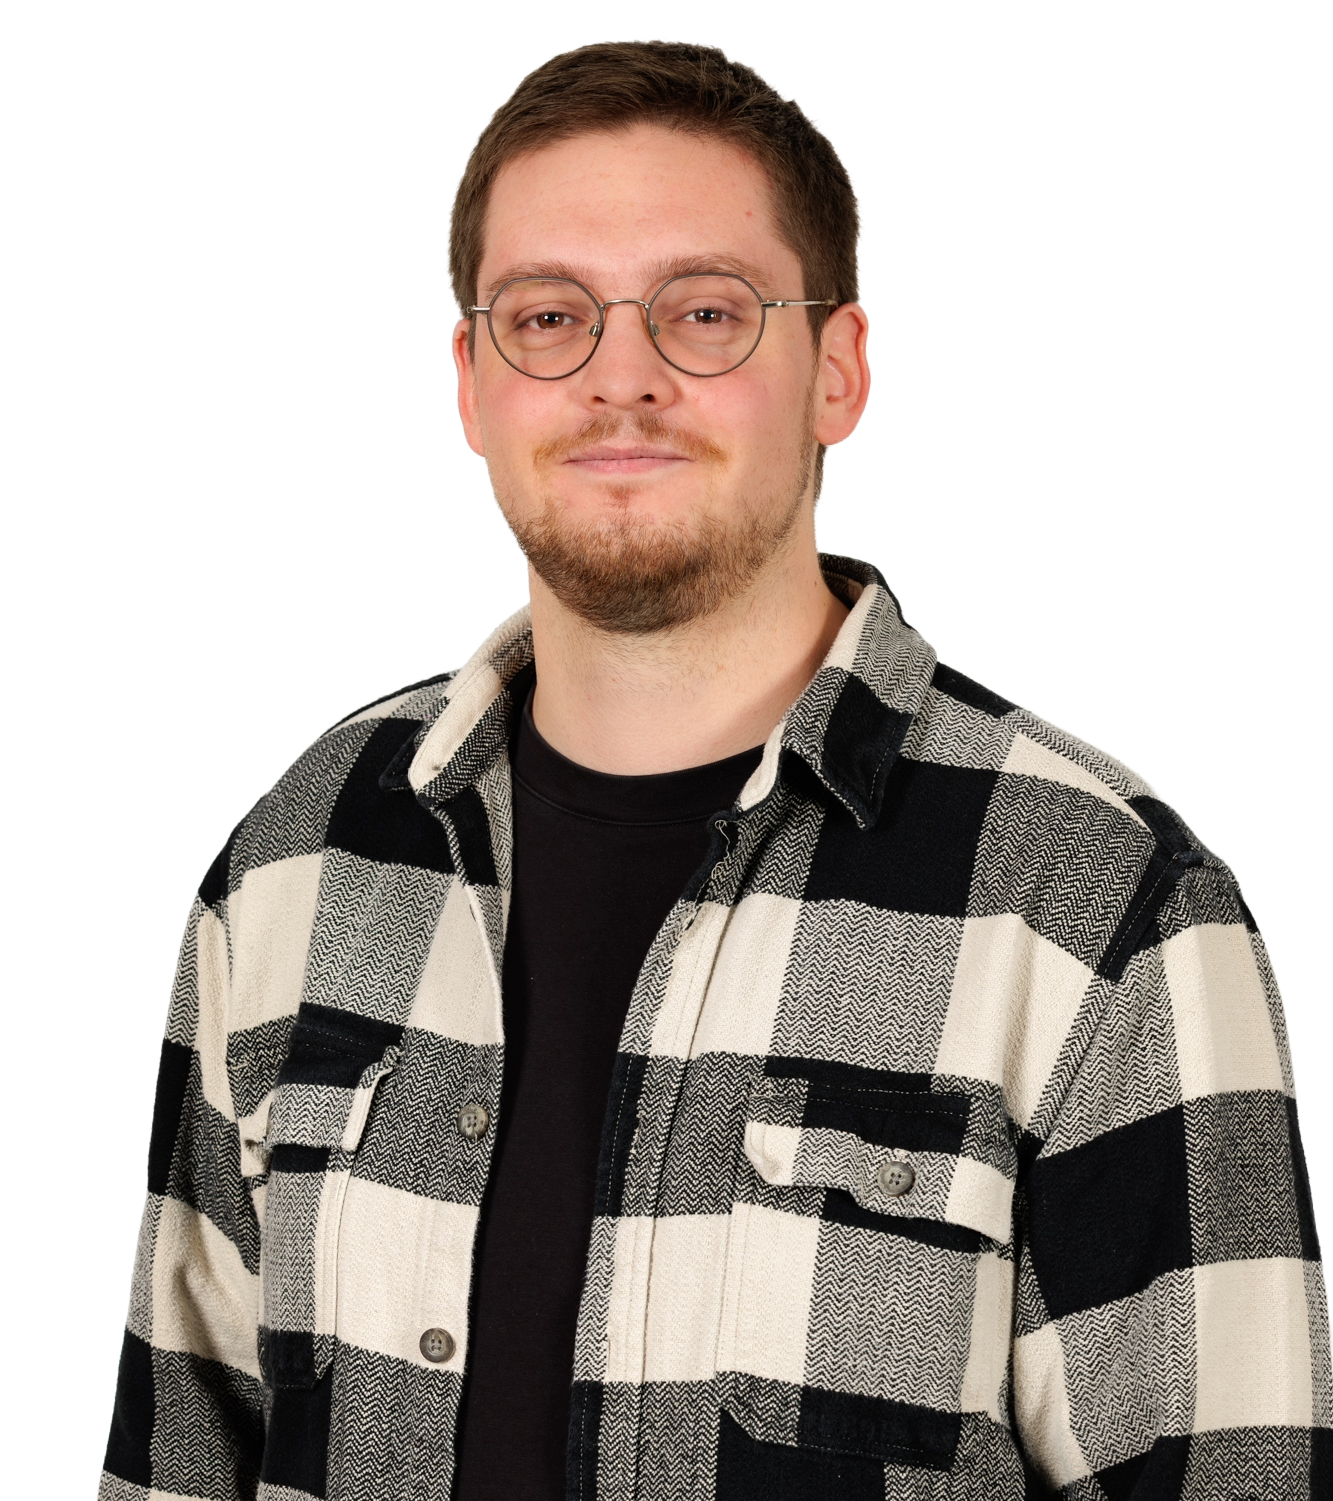
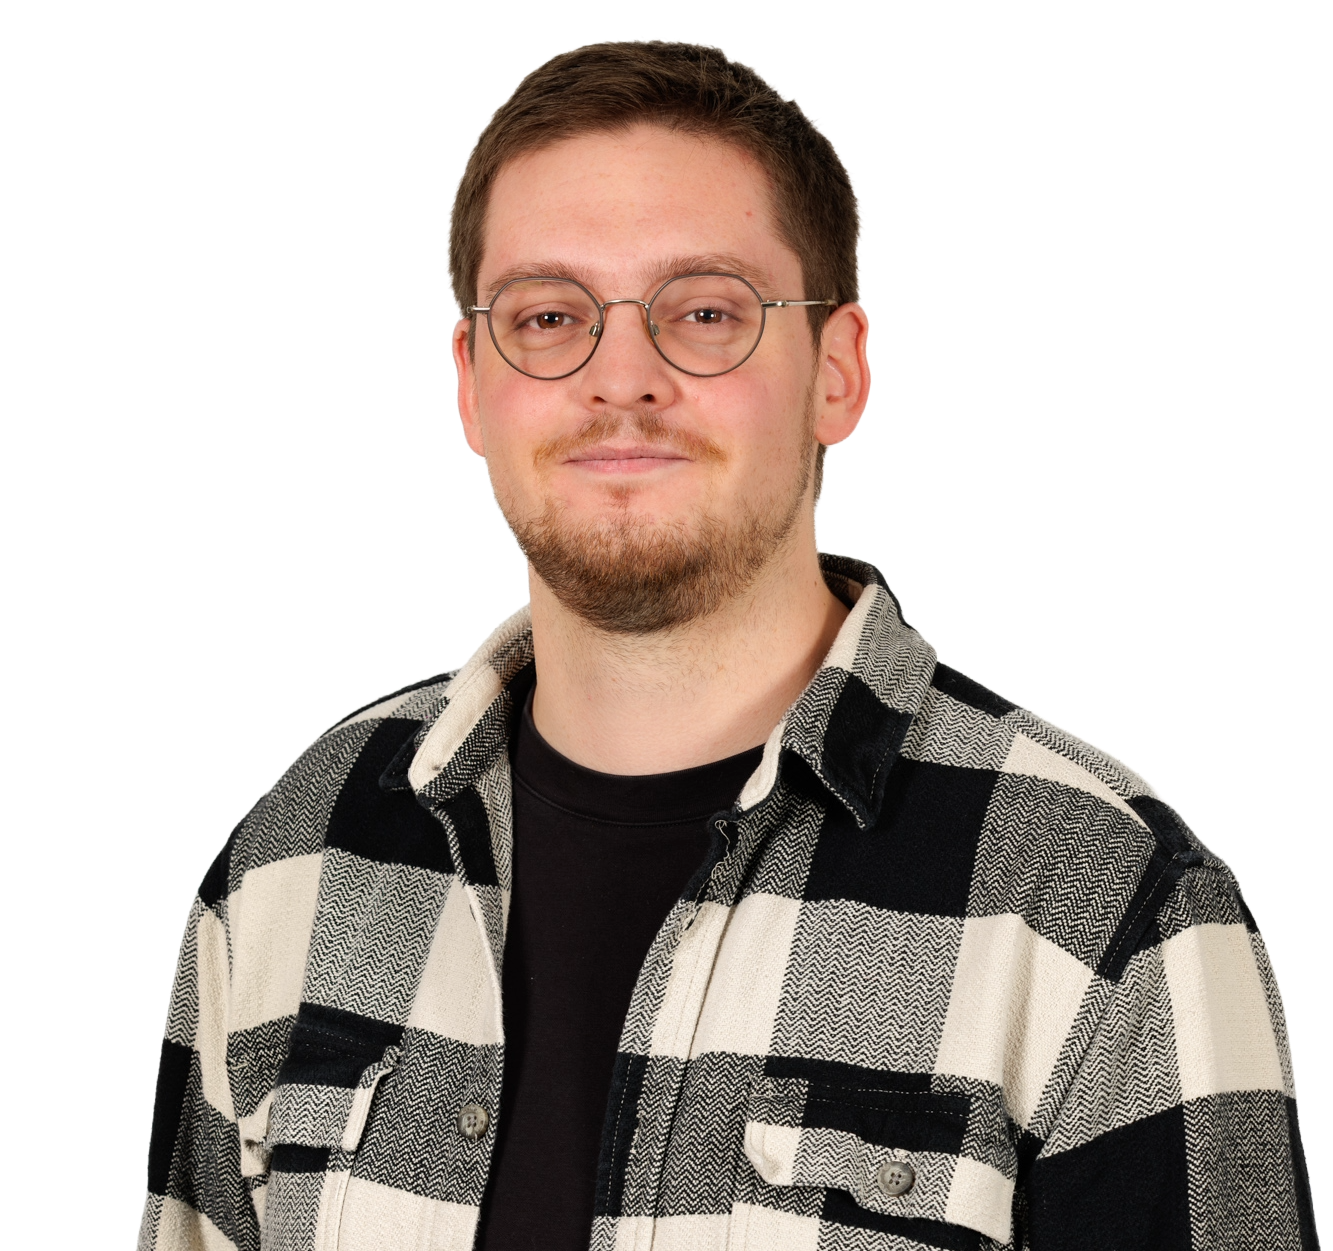
add profile picture

diff --git a/assets/css/_sass/_layout.scss b/assets/css/_sass/_layout.scss
@@ -37,6 +37,7 @@ body {
     font-weight: 400;
     line-height: 1.75;
     color: var(--text);
+    text-align: justify;
 }
 
 /* ─── Layout ─────────────────────────────────────────────── */
@@ -150,6 +151,10 @@ nav {
 
 p {
     margin: 0 0 1rem;
+}
+
+p + p {
+    text-indent: 1.5em;
 }
 
 h2 {
@@ -306,7 +311,29 @@ footer {
     padding: 4rem 0 2rem;
 }
 
+/* ─── Profile image ──────────────────────────────────────── */
+
+.profile-float {
+    float: right;
+    width: 240px;
+    margin: 0 0 0.5rem 2rem;
+    shape-outside: url('/assets/images/about/profile.png');
+    shape-image-threshold: 0.1;
+    shape-margin: 1rem;
+}
+
 /* ─── Responsive ─────────────────────────────────────────── */
+
+@media (max-width: 400px) {
+    .profile-float {
+        float: none;
+        display: block;
+        width: 65%;
+        margin: 0 auto 1.5rem;
+        shape-outside: none;
+    }
+}
+
 
 @media (max-width: 640px) {
     .container {

diff --git a/assets/css/style.css b/assets/css/style.css
@@ -1,1 +1,1 @@
-:root{--bg: #faf7f0;--text: #1e1a14;--text-mid: #1e1a14;--text-dim: #1e1a14;--accent: #6a5acd;--accent-dark: #4d3fa8;--accent-bg: rgba(106, 90, 205, 0.07);--rule: #d9d1c4;--surface: #f0ead6;--font-sans: -apple-system, BlinkMacSystemFont, "Segoe UI", Roboto, Helvetica, Arial, sans-serif;--font-mono: "IBM Plex Mono", ui-monospace, "SFMono-Regular", "Courier New", monospace;--font-serif: "IBM Plex Sans", system-ui, sans-serif;--font-display: "Fraunces", Georgia, serif}*,*::before,*::after{box-sizing:border-box}body{display:flex;flex-direction:column;min-height:100vh;margin:0;padding:0;background:var(--bg);font-family:var(--font-serif);font-size:1.05rem;font-weight:400;line-height:1.75;color:var(--text)}.container{width:100%;max-width:620px;margin:0 auto;padding:.75rem 2rem 0}header{margin-bottom:1.5rem}.masthead-flag{display:flex;flex-direction:column;align-items:center;text-align:center;padding:.6rem 0 .7rem;border-top:1px solid var(--rule);border-bottom:1px solid var(--rule)}.site-name{font-family:"Manufacturing Consent",serif;font-size:clamp(2.8rem,10vw,5rem);font-weight:400;letter-spacing:.01em;text-transform:none;margin:0;line-height:1}.site-name a{color:var(--text);text-decoration:none}.site-name a:hover{color:var(--accent);background-color:rgba(0,0,0,0);text-decoration:none}.masthead-meta{font-family:var(--font-mono);font-size:.65rem;font-weight:400;letter-spacing:.12em;text-transform:uppercase;color:var(--text-dim)}.masthead-dateline{display:flex;justify-content:center;align-items:baseline;padding:0;border-top:1px solid var(--rule);font-family:var(--font-mono);font-size:clamp(.8rem,2.5vw,.9rem);letter-spacing:.1em;text-transform:uppercase;color:var(--text-dim)}nav{display:flex;align-items:center;justify-content:center;border-bottom:1px solid var(--rule)}nav a{font-family:var(--font-mono);font-size:clamp(.8rem,2.5vw,.9rem);font-weight:400;letter-spacing:.1em;text-transform:uppercase;color:var(--text-mid);text-decoration:none;padding:0 .85rem}nav a:not(:last-child){border-right:1px solid var(--rule)}nav a.active{color:var(--accent)}nav a:hover{color:var(--accent);background-color:rgba(0,0,0,0);text-decoration:none}.content{width:100%}p{margin:0 0 1rem}h2{font-family:var(--font-serif);font-size:1.3rem;font-weight:600;letter-spacing:.01em;margin:2rem 0 .65rem;line-height:1.25}h3{font-family:var(--font-serif);font-size:1.05rem;font-weight:600;margin:1.5rem 0 .5rem;line-height:1.3}ul,ol{padding-left:1.5rem;margin:0 0 1rem}a{color:var(--accent);text-decoration:none}a:hover{color:var(--accent-dark);text-decoration:underline;text-decoration-thickness:1px;text-underline-offset:3px;background-color:var(--accent-bg);transition:background-color .15s ease,color .15s ease}.section-label{font-family:var(--font-mono);font-size:.75rem;letter-spacing:.12em;text-transform:uppercase;color:var(--text-dim);margin:0 0 1.25rem}.card-list{list-style:none;padding:0;margin:0;width:100%}.card-list li{border-top:1px solid var(--rule)}.card-list li:first-child{border-top:none}.card-link{display:flex;justify-content:space-between;align-items:baseline;gap:1.5rem;padding:0;color:var(--text);text-decoration:none}.card-link:hover{background-color:rgba(0,0,0,0);text-decoration:none}.card-link:hover .card-title{color:var(--accent)}.card-link:hover .card-date{color:var(--accent)}.card-link .card-title{flex:1;font-family:var(--font-serif);font-size:1.05rem;font-weight:400;color:var(--text);transition:color .15s ease;white-space:nowrap;overflow:hidden;text-overflow:ellipsis}.card-link .card-date{flex-shrink:0;font-family:var(--font-mono);font-size:.75rem;color:var(--text-dim);letter-spacing:.02em;white-space:nowrap;transition:color .15s ease}.resume-viewer{width:100%;margin-top:1.5rem}.resume-viewer iframe{border:1px solid var(--rule);display:block}.resume-viewer .resume-download{display:none;font-family:var(--font-mono);font-size:.75rem;letter-spacing:.08em;text-transform:uppercase;color:var(--accent);text-decoration:none;border:1px solid var(--rule);padding:.9rem 1.25rem;text-align:center}.resume-viewer .resume-download:hover{background-color:var(--accent-bg);color:var(--accent-dark);text-decoration:none}footer{margin-top:auto;text-align:center;font-family:var(--font-mono);font-size:.75rem;color:var(--text-dim);letter-spacing:.06em;padding:4rem 0 2rem}@media(max-width: 640px){.container{padding-top:2rem;padding-left:1.25rem;padding-right:1.25rem}nav a{padding:0 .7rem}.masthead-meta{font-size:.65rem}}.article-content{width:100%}.article-content>h2:first-child{font-family:var(--font-display);font-size:1.65rem;font-weight:600;line-height:1.2;letter-spacing:.01em;margin:0 0 1.75rem;padding-bottom:1.25rem;border-bottom:1px solid var(--rule)}.article-content h2{font-family:var(--font-display);font-size:1.3rem;font-weight:600;line-height:1.25;margin:2.25rem 0 .75rem}.article-content h3{font-family:var(--font-display);font-size:1.05rem;font-weight:600;margin:1.75rem 0 .5rem}.article-content p{font-family:var(--font-serif);font-size:1rem;line-height:1.85;margin:0 0 1.15rem;color:var(--text)}.article-content li{font-family:var(--font-serif);font-size:1rem;line-height:1.85}.article-content>p:first-of-type::first-letter{font-family:var(--font-serif);font-size:3.8em;font-weight:600;float:left;line-height:.82;margin:.05em .1em 0 0;color:var(--text)}.article-content blockquote{margin:1.75rem 0;padding:0 0 0 1.5rem;border-left:2px solid var(--rule);color:var(--text-mid);font-family:var(--font-serif);font-size:.95rem;font-style:normal}.article-content blockquote p{font-size:inherit;color:inherit}.article-content figure{margin:3rem auto;text-align:center}.article-content figure img{max-width:86%;height:auto;display:block;margin:0 auto;border-radius:2px;box-shadow:0 2px 24px rgba(30,26,20,.13)}.article-content figure figcaption{margin-top:.8rem;font-family:var(--font-sans);font-size:.8rem;color:var(--text-mid);font-style:normal;letter-spacing:.01em}.post-footer{margin-top:3.5rem;padding-top:1.5rem;border-top:1px solid var(--rule)}.post-date-md{font-family:var(--font-mono);font-size:.75rem;color:var(--text-dim);letter-spacing:.07em;text-transform:uppercase}.book-citation{background-color:var(--surface);border-left:2px solid var(--accent);padding:1.35rem 1.75rem;margin:2.75rem 0;font-family:var(--font-serif)}.book-citation h2{font-family:var(--font-serif);font-size:.72rem;font-weight:400;text-transform:uppercase;letter-spacing:.12em;color:var(--text-dim);margin:0 0 1rem;border:none;padding:0}.book-citation blockquote{margin:0;padding:0;border:none;font-size:1rem;line-height:1.85;font-style:normal;color:var(--text)}.book-citation blockquote p{font-family:var(--font-serif);font-size:inherit;color:inherit;margin:0 0 .5rem}.book-citation blockquote footer{text-align:right;font-family:var(--font-serif);font-size:.9rem;font-style:normal;color:var(--text-mid);margin-top:1rem;padding:0}.book-citation blockquote footer cite{font-style:normal;color:var(--accent)}.project{width:100%}.project .project-header{margin-bottom:1.75rem;padding-bottom:1.25rem;border-bottom:1px solid var(--rule)}.project .project-header h3{font-family:var(--font-display);font-size:1.55rem;font-weight:600;line-height:1.2;margin:0}.project .project-content p,.project .project-content li{font-family:var(--font-serif);font-size:1rem;line-height:1.85}.song{max-width:800px;margin:0 auto;padding:2rem}.song-header{margin-bottom:2rem;text-align:left}.song-meta{margin:1rem 0;font-style:italic}.song-meta p{margin:.5rem 0}.print-button{display:inline-flex;align-items:center;gap:8px;padding:10px 20px;background-color:var(--accent);color:#fff;border:none;border-radius:4px;cursor:pointer;font-size:14px;font-weight:500;transition:all .2s ease;box-shadow:0 2px 4px rgba(106,90,205,.2);margin:1rem 0}.print-button:hover{background-color:var(--accent-dark);box-shadow:0 4px 8px rgba(106,90,205,.3);transform:translateY(-1px)}.print-button:active{transform:translateY(0);box-shadow:0 1px 2px rgba(106,90,205,.2)}.print-button .print-icon{font-size:16px}.beta-notice{display:block;margin-top:-12px;font-size:12px;color:#666;font-style:italic}.verse,.chorus,.pre-chorus,.bridge{white-space:pre-wrap;line-height:1.5;position:relative;margin-bottom:2rem}.verse::before,.chorus::before,.pre-chorus::before,.bridge::before{content:attr(data-label);position:absolute;left:0;font-size:.8rem;color:#666;text-transform:uppercase;letter-spacing:1px}.verse::before{font-weight:bold;content:"Verse"}.chorus::before{font-weight:bold;content:"Chorus"}.pre-chorus{font-style:italic}.pre-chorus::before{font-weight:bold;content:"Pre-Chorus"}.bridge{font-style:italic}.bridge::before{font-weight:bold;content:"Bridge"}@media print{.print-button{display:none}.song{padding:2cm 3cm;margin:0}.song-content{page-break-inside:avoid;page-break-after:auto}.song-content>*:last-child{margin-bottom:0}.verse,.chorus,.pre-chorus,.bridge{padding-left:2cm;margin-bottom:1cm}.verse::before,.chorus::before,.pre-chorus::before,.bridge::before{color:#000;left:0}.print-footer{text-align:center;font-size:.9rem;position:fixed;bottom:0;left:0;right:0;background:#fff;padding:1cm 3cm 1cm 3cm;page-break-after:avoid}.beta-notice{display:none}}/*# sourceMappingURL=style.css.map */
+:root{--bg: #faf7f0;--text: #1e1a14;--text-mid: #1e1a14;--text-dim: #1e1a14;--accent: #6a5acd;--accent-dark: #4d3fa8;--accent-bg: rgba(106, 90, 205, 0.07);--rule: #d9d1c4;--surface: #f0ead6;--font-sans: -apple-system, BlinkMacSystemFont, "Segoe UI", Roboto, Helvetica, Arial, sans-serif;--font-mono: "IBM Plex Mono", ui-monospace, "SFMono-Regular", "Courier New", monospace;--font-serif: "IBM Plex Sans", system-ui, sans-serif;--font-display: "Fraunces", Georgia, serif}*,*::before,*::after{box-sizing:border-box}body{display:flex;flex-direction:column;min-height:100vh;margin:0;padding:0;background:var(--bg);font-family:var(--font-serif);font-size:1.05rem;font-weight:400;line-height:1.75;color:var(--text);text-align:justify}.container{width:100%;max-width:620px;margin:0 auto;padding:.75rem 2rem 0}header{margin-bottom:1.5rem}.masthead-flag{display:flex;flex-direction:column;align-items:center;text-align:center;padding:.6rem 0 .7rem;border-top:1px solid var(--rule);border-bottom:1px solid var(--rule)}.site-name{font-family:"Manufacturing Consent",serif;font-size:clamp(2.8rem,10vw,5rem);font-weight:400;letter-spacing:.01em;text-transform:none;margin:0;line-height:1}.site-name a{color:var(--text);text-decoration:none}.site-name a:hover{color:var(--accent);background-color:rgba(0,0,0,0);text-decoration:none}.masthead-meta{font-family:var(--font-mono);font-size:.65rem;font-weight:400;letter-spacing:.12em;text-transform:uppercase;color:var(--text-dim)}.masthead-dateline{display:flex;justify-content:center;align-items:baseline;padding:0;border-top:1px solid var(--rule);font-family:var(--font-mono);font-size:clamp(.8rem,2.5vw,.9rem);letter-spacing:.1em;text-transform:uppercase;color:var(--text-dim)}nav{display:flex;align-items:center;justify-content:center;border-bottom:1px solid var(--rule)}nav a{font-family:var(--font-mono);font-size:clamp(.8rem,2.5vw,.9rem);font-weight:400;letter-spacing:.1em;text-transform:uppercase;color:var(--text-mid);text-decoration:none;padding:0 .85rem}nav a:not(:last-child){border-right:1px solid var(--rule)}nav a.active{color:var(--accent)}nav a:hover{color:var(--accent);background-color:rgba(0,0,0,0);text-decoration:none}.content{width:100%}p{margin:0 0 1rem}p+p{text-indent:1.5em}h2{font-family:var(--font-serif);font-size:1.3rem;font-weight:600;letter-spacing:.01em;margin:2rem 0 .65rem;line-height:1.25}h3{font-family:var(--font-serif);font-size:1.05rem;font-weight:600;margin:1.5rem 0 .5rem;line-height:1.3}ul,ol{padding-left:1.5rem;margin:0 0 1rem}a{color:var(--accent);text-decoration:none}a:hover{color:var(--accent-dark);text-decoration:underline;text-decoration-thickness:1px;text-underline-offset:3px;background-color:var(--accent-bg);transition:background-color .15s ease,color .15s ease}.section-label{font-family:var(--font-mono);font-size:.75rem;letter-spacing:.12em;text-transform:uppercase;color:var(--text-dim);margin:0 0 1.25rem}.card-list{list-style:none;padding:0;margin:0;width:100%}.card-list li{border-top:1px solid var(--rule)}.card-list li:first-child{border-top:none}.card-link{display:flex;justify-content:space-between;align-items:baseline;gap:1.5rem;padding:0;color:var(--text);text-decoration:none}.card-link:hover{background-color:rgba(0,0,0,0);text-decoration:none}.card-link:hover .card-title{color:var(--accent)}.card-link:hover .card-date{color:var(--accent)}.card-link .card-title{flex:1;font-family:var(--font-serif);font-size:1.05rem;font-weight:400;color:var(--text);transition:color .15s ease;white-space:nowrap;overflow:hidden;text-overflow:ellipsis}.card-link .card-date{flex-shrink:0;font-family:var(--font-mono);font-size:.75rem;color:var(--text-dim);letter-spacing:.02em;white-space:nowrap;transition:color .15s ease}.resume-viewer{width:100%;margin-top:1.5rem}.resume-viewer iframe{border:1px solid var(--rule);display:block}.resume-viewer .resume-download{display:none;font-family:var(--font-mono);font-size:.75rem;letter-spacing:.08em;text-transform:uppercase;color:var(--accent);text-decoration:none;border:1px solid var(--rule);padding:.9rem 1.25rem;text-align:center}.resume-viewer .resume-download:hover{background-color:var(--accent-bg);color:var(--accent-dark);text-decoration:none}footer{margin-top:auto;text-align:center;font-family:var(--font-mono);font-size:.75rem;color:var(--text-dim);letter-spacing:.06em;padding:4rem 0 2rem}.profile-float{float:right;width:240px;margin:0 0 .5rem 2rem;shape-outside:url("/assets/images/about/profile.png");shape-image-threshold:.1;shape-margin:1rem}@media(max-width: 400px){.profile-float{float:none;display:block;width:65%;margin:0 auto 1.5rem;shape-outside:none}}@media(max-width: 640px){.container{padding-top:2rem;padding-left:1.25rem;padding-right:1.25rem}nav a{padding:0 .7rem}.masthead-meta{font-size:.65rem}}.article-content{width:100%}.article-content>h2:first-child{font-family:var(--font-display);font-size:1.65rem;font-weight:600;line-height:1.2;letter-spacing:.01em;margin:0 0 1.75rem;padding-bottom:1.25rem;border-bottom:1px solid var(--rule)}.article-content h2{font-family:var(--font-display);font-size:1.3rem;font-weight:600;line-height:1.25;margin:2.25rem 0 .75rem}.article-content h3{font-family:var(--font-display);font-size:1.05rem;font-weight:600;margin:1.75rem 0 .5rem}.article-content p{font-family:var(--font-serif);font-size:1rem;line-height:1.85;margin:0 0 1.15rem;color:var(--text)}.article-content li{font-family:var(--font-serif);font-size:1rem;line-height:1.85}.article-content>p:first-of-type::first-letter{font-family:var(--font-serif);font-size:3.8em;font-weight:600;float:left;line-height:.82;margin:.05em .1em 0 0;color:var(--text)}.article-content blockquote{margin:1.75rem 0;padding:0 0 0 1.5rem;border-left:2px solid var(--rule);color:var(--text-mid);font-family:var(--font-serif);font-size:.95rem;font-style:normal}.article-content blockquote p{font-size:inherit;color:inherit}.article-content figure{margin:3rem auto;text-align:center}.article-content figure img{max-width:86%;height:auto;display:block;margin:0 auto;border-radius:2px;box-shadow:0 2px 24px rgba(30,26,20,.13)}.article-content figure figcaption{margin-top:.8rem;font-family:var(--font-sans);font-size:.8rem;color:var(--text-mid);font-style:normal;letter-spacing:.01em}.post-footer{margin-top:3.5rem;padding-top:1.5rem;border-top:1px solid var(--rule)}.post-date-md{font-family:var(--font-mono);font-size:.75rem;color:var(--text-dim);letter-spacing:.07em;text-transform:uppercase}.book-citation{background-color:var(--surface);border-left:2px solid var(--accent);padding:1.35rem 1.75rem;margin:2.75rem 0;font-family:var(--font-serif)}.book-citation h2{font-family:var(--font-serif);font-size:.72rem;font-weight:400;text-transform:uppercase;letter-spacing:.12em;color:var(--text-dim);margin:0 0 1rem;border:none;padding:0}.book-citation blockquote{margin:0;padding:0;border:none;font-size:1rem;line-height:1.85;font-style:normal;color:var(--text)}.book-citation blockquote p{font-family:var(--font-serif);font-size:inherit;color:inherit;margin:0 0 .5rem}.book-citation blockquote footer{text-align:right;font-family:var(--font-serif);font-size:.9rem;font-style:normal;color:var(--text-mid);margin-top:1rem;padding:0}.book-citation blockquote footer cite{font-style:normal;color:var(--accent)}.project{width:100%}.project .project-header{margin-bottom:1.75rem;padding-bottom:1.25rem;border-bottom:1px solid var(--rule)}.project .project-header h3{font-family:var(--font-display);font-size:1.55rem;font-weight:600;line-height:1.2;margin:0}.project .project-content p,.project .project-content li{font-family:var(--font-serif);font-size:1rem;line-height:1.85}.song{max-width:800px;margin:0 auto;padding:2rem}.song-header{margin-bottom:2rem;text-align:left}.song-meta{margin:1rem 0;font-style:italic}.song-meta p{margin:.5rem 0}.print-button{display:inline-flex;align-items:center;gap:8px;padding:10px 20px;background-color:var(--accent);color:#fff;border:none;border-radius:4px;cursor:pointer;font-size:14px;font-weight:500;transition:all .2s ease;box-shadow:0 2px 4px rgba(106,90,205,.2);margin:1rem 0}.print-button:hover{background-color:var(--accent-dark);box-shadow:0 4px 8px rgba(106,90,205,.3);transform:translateY(-1px)}.print-button:active{transform:translateY(0);box-shadow:0 1px 2px rgba(106,90,205,.2)}.print-button .print-icon{font-size:16px}.beta-notice{display:block;margin-top:-12px;font-size:12px;color:#666;font-style:italic}.verse,.chorus,.pre-chorus,.bridge{white-space:pre-wrap;line-height:1.5;position:relative;margin-bottom:2rem}.verse::before,.chorus::before,.pre-chorus::before,.bridge::before{content:attr(data-label);position:absolute;left:0;font-size:.8rem;color:#666;text-transform:uppercase;letter-spacing:1px}.verse::before{font-weight:bold;content:"Verse"}.chorus::before{font-weight:bold;content:"Chorus"}.pre-chorus{font-style:italic}.pre-chorus::before{font-weight:bold;content:"Pre-Chorus"}.bridge{font-style:italic}.bridge::before{font-weight:bold;content:"Bridge"}@media print{.print-button{display:none}.song{padding:2cm 3cm;margin:0}.song-content{page-break-inside:avoid;page-break-after:auto}.song-content>*:last-child{margin-bottom:0}.verse,.chorus,.pre-chorus,.bridge{padding-left:2cm;margin-bottom:1cm}.verse::before,.chorus::before,.pre-chorus::before,.bridge::before{color:#000;left:0}.print-footer{text-align:center;font-size:.9rem;position:fixed;bottom:0;left:0;right:0;background:#fff;padding:1cm 3cm 1cm 3cm;page-break-after:avoid}.beta-notice{display:none}}/*# sourceMappingURL=style.css.map */

diff --git a/index.md b/index.md
@@ -4,6 +4,8 @@ layout: default
 
 <p class="section-label">About</p>
 
+<div><img src="/assets/images/about/profile.png" alt="Lucian Mocan" class="profile-float"></div>
+
 I'm **Lucian**, a computer science researcher and software engineer currently pursuing my M.S. in Computer Science, Networks, Internet and Systems Engineering at the [University of Strasbourg](https://mathinfo.unistra.fr/formations/master/master-informatique/odf-parcours-science-et-ingenierie-des-reseaux-de-linternet-et-des-systemes-siris-PR12-18105/?tab=cours), where I also hold a B.S (6th out of 122). I am also enrolled in the highly selective five-year *Cursus Master en Ingénierie* track, run by [Réseau Figure](https://www.reseau-figure.fr/les-cursus-master-en-ingenierie).
 
 Currently, I am a visiting student researcher at [Northwestern University](https://www.mccormick.northwestern.edu/)'s [Prescience Lab](http://www.presciencelab.org/) under Professor [Peter Dinda](http://pdinda.org/). I have a strong interest in exploring how AI can accelerate, and potentially automate, systems research.